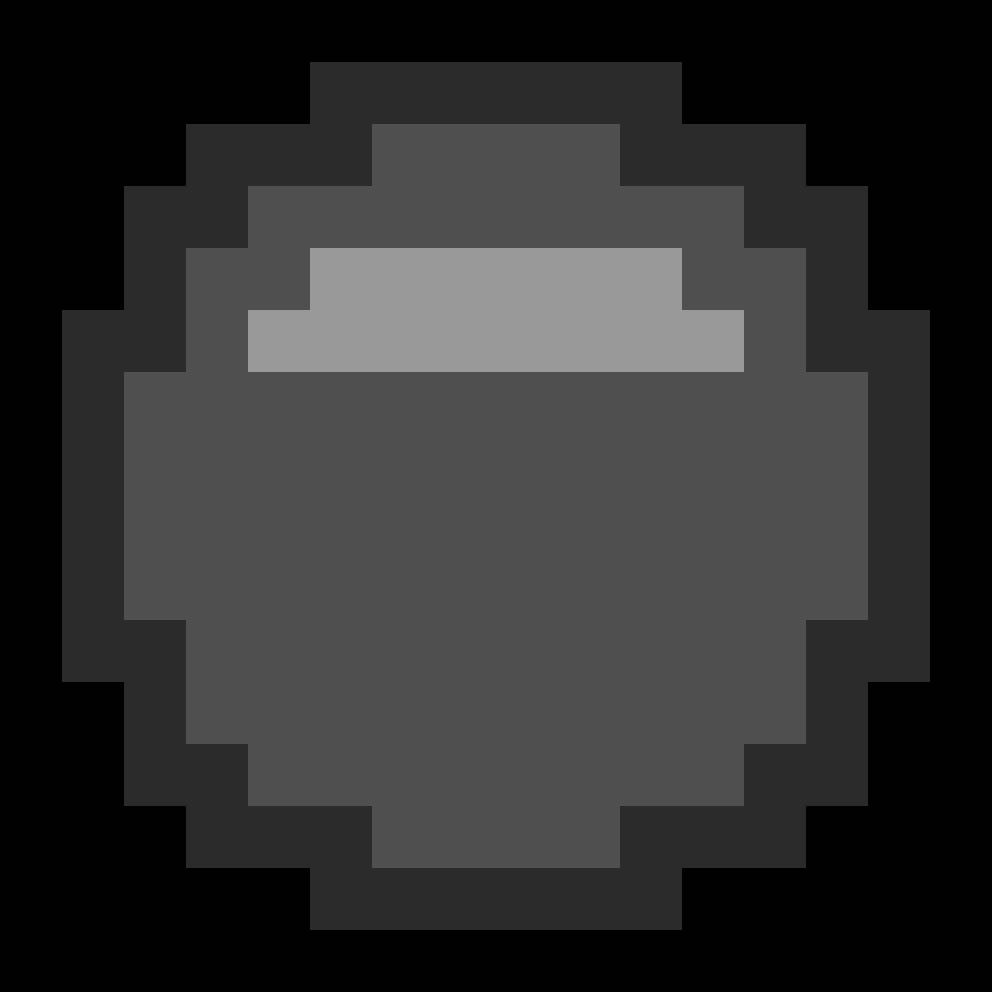
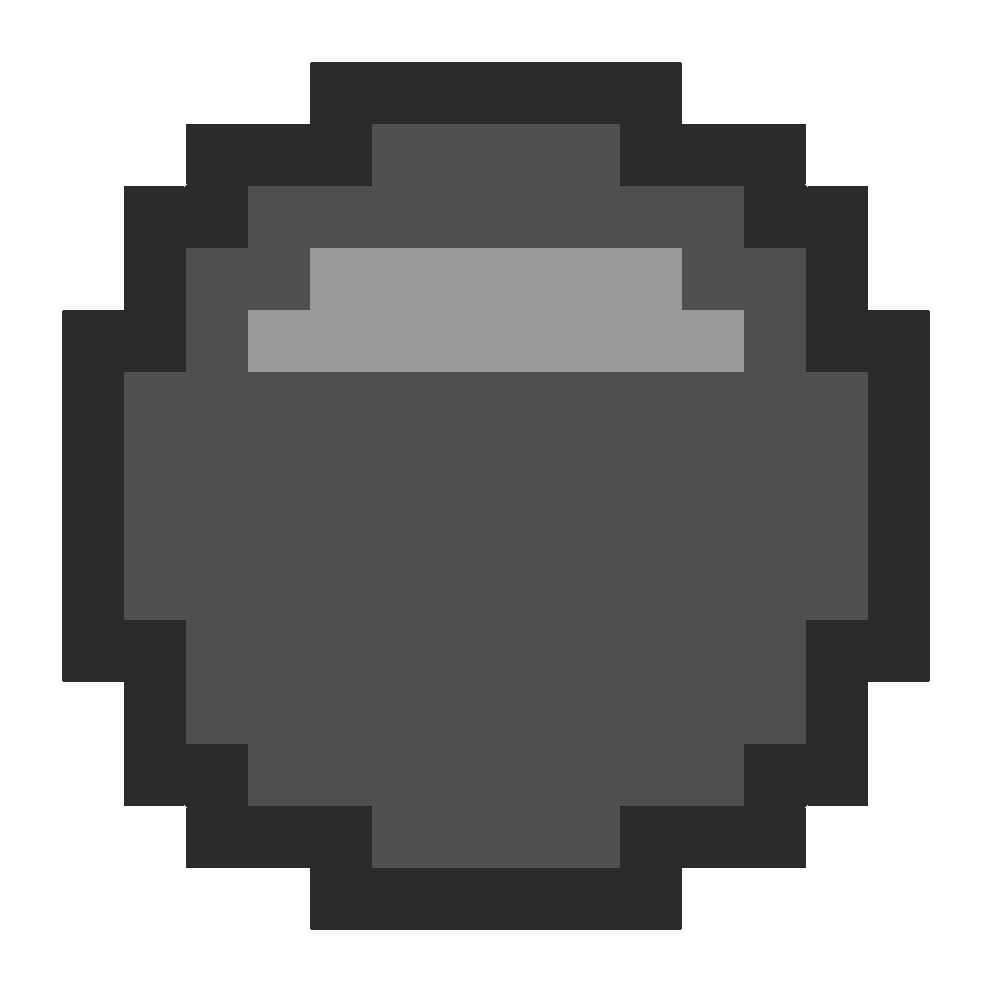
Added images

diff --git a/breakoutadvance/scenes/PlayScene.java b/breakoutadvance/scenes/PlayScene.java
@@ -9,10 +9,13 @@ import breakoutadvance.utils.CollisionChecker;
 import breakoutadvance.utils.EdgeHit;
 import breakoutadvance.utils.Sound;
 import breakoutadvance.utils.WindowUtils;
+import javafx.scene.image.Image;
 import javafx.scene.input.KeyCode;
+import javafx.scene.layout.*;
 import javafx.scene.paint.Color;
 import javafx.scene.text.Text;
 
+import java.io.FileInputStream;
 import java.util.Random;
 
 public class PlayScene extends AbstractScene {
@@ -34,7 +37,7 @@ public class PlayScene extends AbstractScene {
 
 
     public PlayScene(int n, int m) {
-        this.getScene().setFill(Color.BLACK);
+        this.addBackgroundImage();
         this.grid = new Grid(this, n, m);
 
         // Create ball and paddle
@@ -53,6 +56,26 @@ public class PlayScene extends AbstractScene {
 
         // Setup Keyboard events
         setupKeyPressedEvents();
+    }
+
+    public void addBackgroundImage(){
+        this.getScene().setFill(Color.BLACK);
+        try {
+            FileInputStream input = new FileInputStream("assets/background.jpg");
+            Image image = new Image(input);
+
+            BackgroundImage backgroundimage = new BackgroundImage(image,
+                    BackgroundRepeat.REPEAT,
+                    BackgroundRepeat.REPEAT,
+                    BackgroundPosition.CENTER,
+                    BackgroundSize.DEFAULT);
+
+            Background background = new Background(backgroundimage);
+
+            this.getPane().setBackground(background);
+        } catch (Exception ex) {
+            System.err.println("Error loading background image");
+        }
     }
 
     public void setupKeyPressedEvents() {

diff --git a/breakoutadvance/objects/Paddle.java b/breakoutadvance/objects/Paddle.java
@@ -8,6 +8,8 @@ import javafx.scene.image.ImageView;
 import javafx.scene.paint.Color;
 import javafx.scene.shape.Rectangle;
 
+import java.io.FileInputStream;
+
 /**
  * Used to create a paddle on the screen
  */
@@ -32,13 +34,24 @@ public class Paddle extends Entity {
         super(posX, posY, height, width);
         this.velX = velX;
 
-        // Create Rectangle as the paddle
-        Rectangle paddle = new Rectangle(this.getPosX(), this.getPosY(), this.getWidth(), this.getHeight());
-        paddle.setFill(Color.RED);
-        playScene.getPane().getChildren().add(paddle);
+        try {
+            Image image = new Image(new FileInputStream("assets/paddle.png"));
+            imgView = new ImageView(image);
+            imgView.relocate(this.getPosX(), this.getPosY());
+            imgView.setFitHeight(this.getHeight());
+            imgView.setFitWidth(this.getWidth());
 
-        // Update position
-        this.setNode(paddle);
+            playScene.getPane().getChildren().add(imgView);
+            this.setNode(imgView);
+        } catch (Exception e) {
+            // Create Rectangle as the paddle
+            Rectangle paddle = new Rectangle(this.getPosX(), this.getPosY(), this.getWidth(), this.getHeight());
+            paddle.setFill(Color.RED);
+            playScene.getPane().getChildren().add(paddle);
+
+            // Update position
+            this.setNode(paddle);
+        }
     }
 
     /**

diff --git a/breakoutadvance/objects/Ball.java b/breakoutadvance/objects/Ball.java
@@ -7,6 +7,8 @@ import javafx.scene.image.ImageView;
 import javafx.scene.paint.Color;
 import javafx.scene.shape.Circle;
 
+import java.io.FileInputStream;
+
 public class Ball extends Entity {
     private double velX;
     private double velY;
@@ -19,11 +21,22 @@ public class Ball extends Entity {
         this.velX = velX;
         this.velY = velY;
 
-        Circle ball = new Circle(this.getPosX(), this.getPosY(), this.getHeight());
-        ball.setFill(Color.RED);
-        playScene.getPane().getChildren().add(ball);
+        try {
+            Image image = new Image(new FileInputStream("assets/ball.png"));
+            imgView = new ImageView(image);
+            imgView.relocate(this.getPosX(), this.getPosY());
+            imgView.setFitHeight(this.getHeight()*2);
+            imgView.setFitWidth(this.getWidth()*2);
 
-        this.setNode(ball);
+            playScene.getPane().getChildren().add(imgView);
+            this.setNode(imgView);
+        } catch (Exception e) {
+            Circle ball = new Circle(this.getPosX(), this.getPosY(), this.getHeight());
+            ball.setFill(Color.RED);
+            playScene.getPane().getChildren().add(ball);
+
+            this.setNode(ball);
+        }
     }
 
     /**
